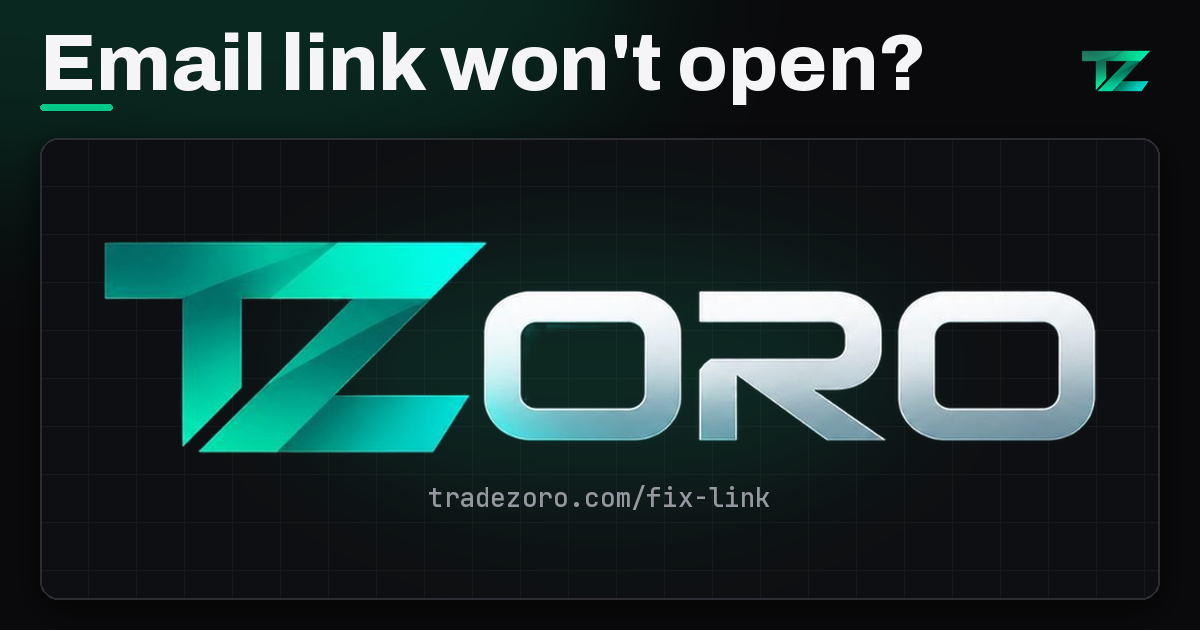
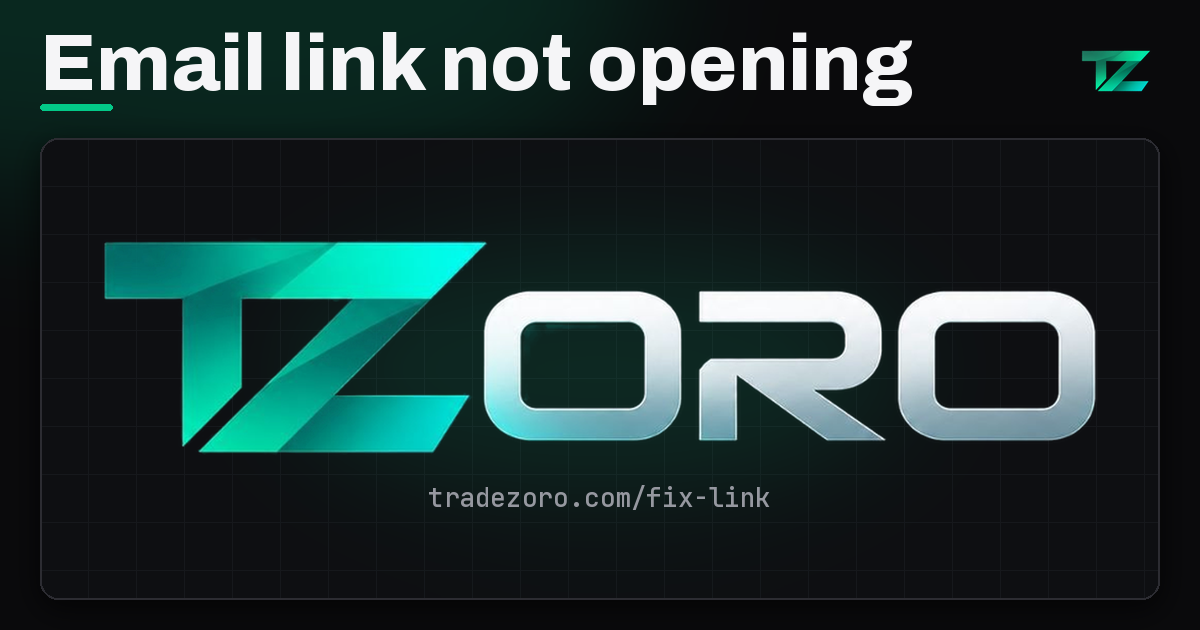
fix-link: og title passes check
Roadmap: Email link fallback

Changed region(s): [[0.37, 0.0302, 0.7708, 0.181]]

diff --git a/fix-link.html b/fix-link.html
@@ -7,7 +7,7 @@
 <meta name="description" content="Email link not opening on your phone? Paste it here and we open it for you.">
 <meta property="og:type" content="website">
 <meta property="og:site_name" content="TradeZoro">
-<meta property="og:title" content="Email link won&#x27;t open? — TradeZoro">
+<meta property="og:title" content="Email link not opening — TradeZoro">
 <meta property="og:description" content="Email link not opening on your phone? Paste it here and we open it for you.">
 <meta property="og:url" content="https://tradezoro.com/fix-link">
 <meta property="og:image" content="https://tradezoro.com/assets/images/og/share/fix-link.png?v=876">
@@ -16,7 +16,7 @@
 <meta property="og:image:type" content="image/png">
 <meta property="og:image:alt" content="Email link fix share card with the TradeZoro logo">
 <meta name="twitter:card" content="summary_large_image">
-<meta name="twitter:title" content="Email link won&#x27;t open? — TradeZoro">
+<meta name="twitter:title" content="Email link not opening — TradeZoro">
 <meta name="twitter:description" content="Email link not opening on your phone? Paste it here and we open it for you.">
 <meta name="twitter:image" content="https://tradezoro.com/assets/images/og/share/fix-link.png?v=876">
 <meta name="twitter:image:alt" content="Email link fix share card with the TradeZoro logo">
